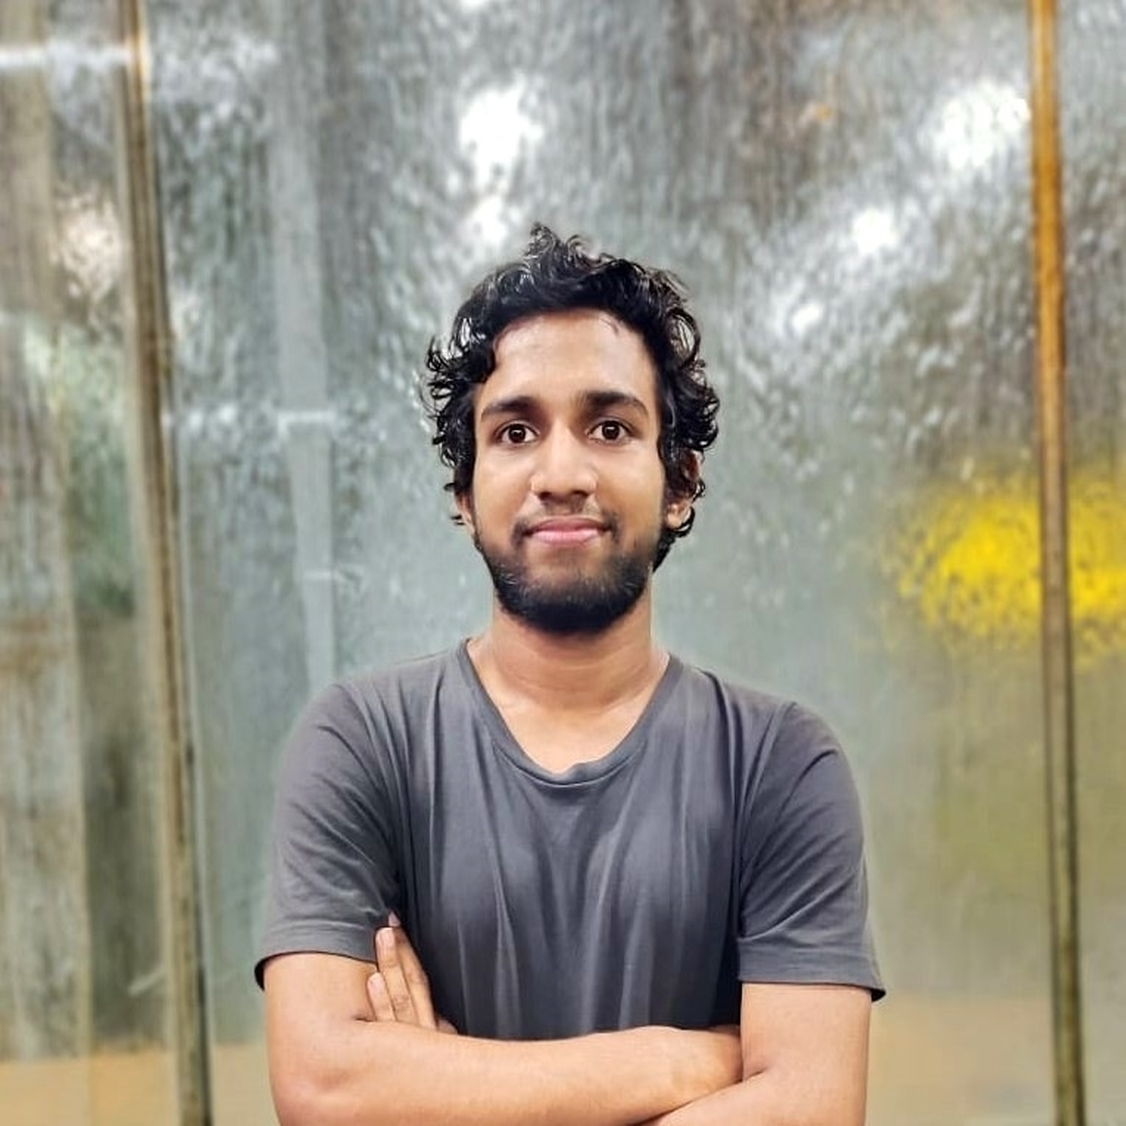
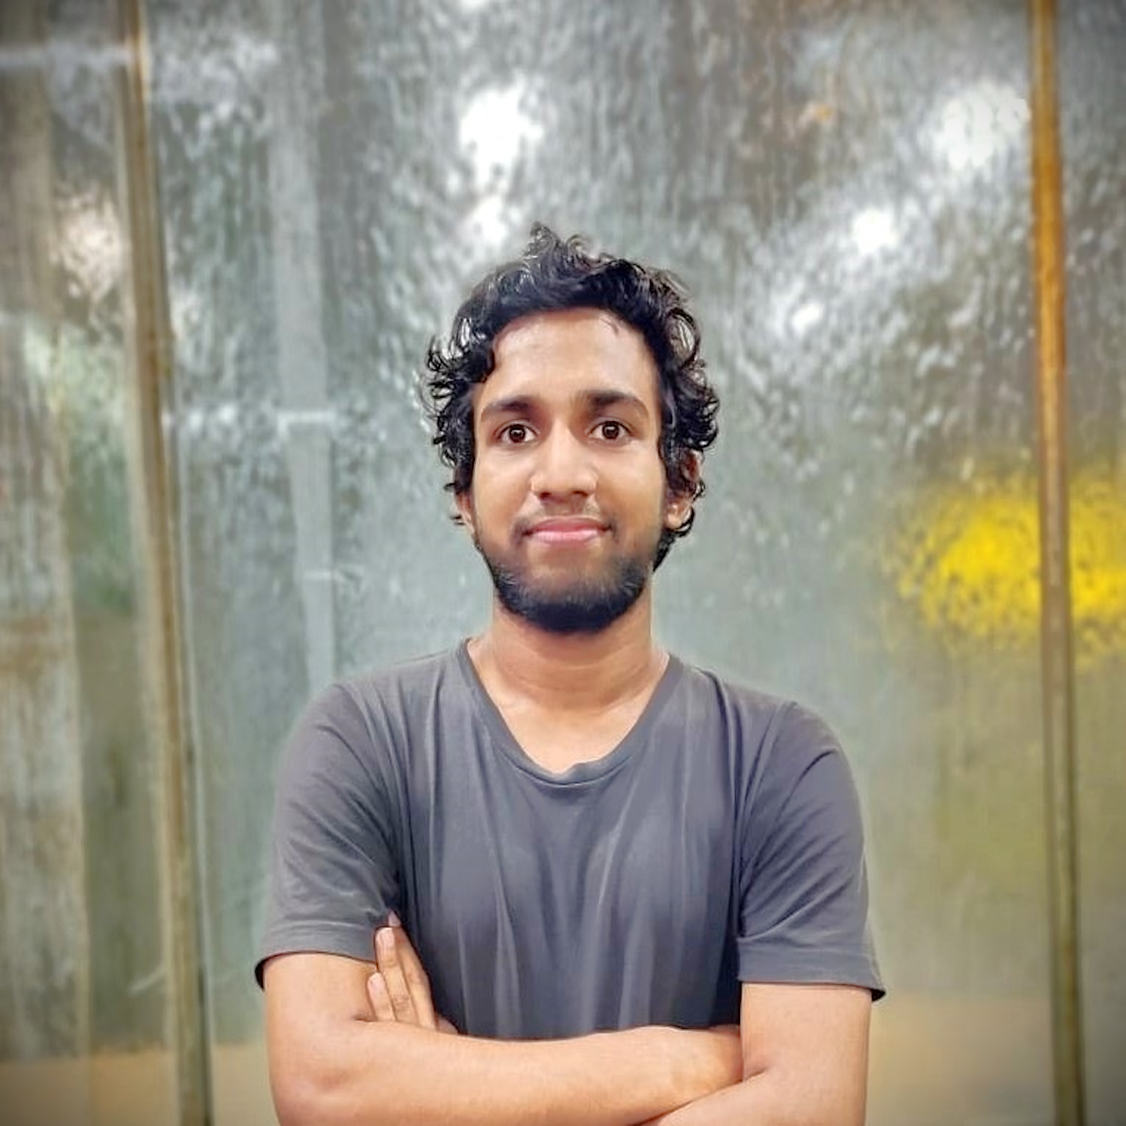
fix header

diff --git a/_includes/00_about.html b/_includes/00_about.html
@@ -5,7 +5,7 @@
             <div class="row">
                 <div class="col-md-8 col-md-offset-2">
                     <h1 class="brand-heading">&nbsp;</h1>
-                    <img src="{{ site.url }}/assets/img/propicsm.png" style="border-radius: 50%" width="50%">
+                    <img src="{{ site.url }}/assets/img/propic.jpg" style="border-radius: 50%" width="50%">
                     <p class="intro-text">full-stack software engineer </p>
                     <ul class="list-inline social-buttons">
                         <li><a href="mailto:hello@sohails.tech"><i class="fa fa-envelope fa-fw"></i></a></li>
